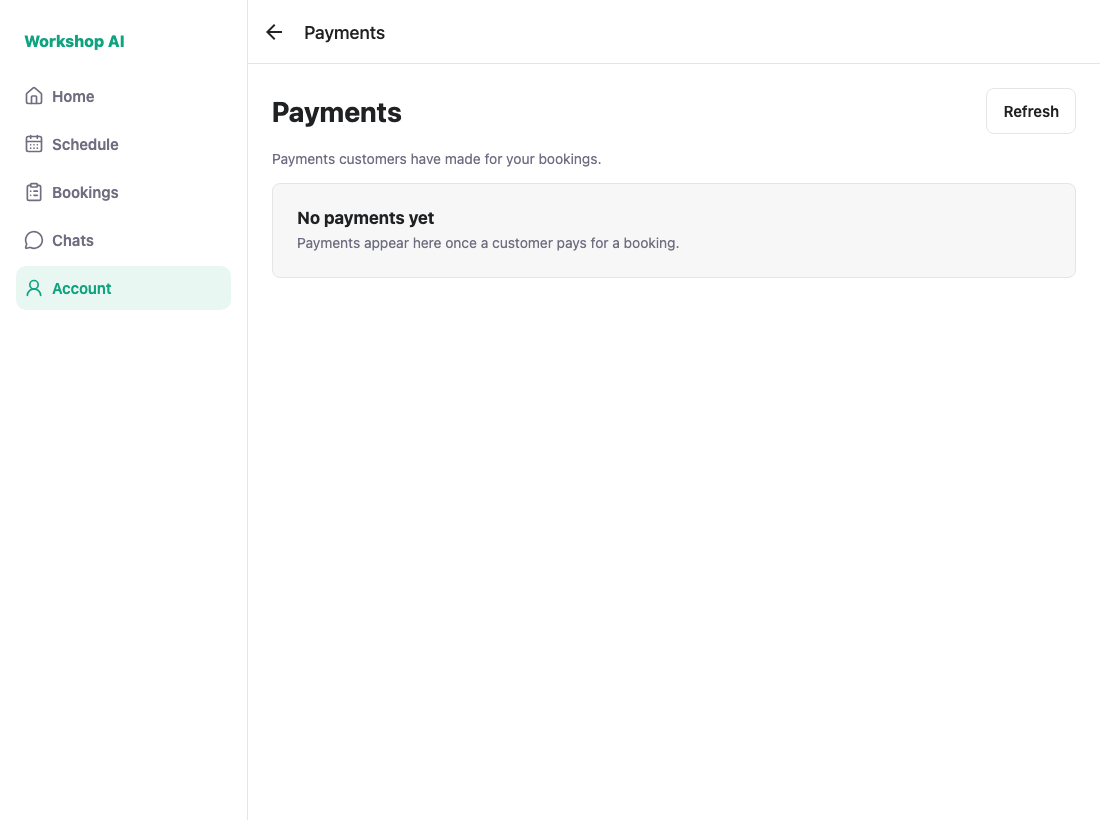
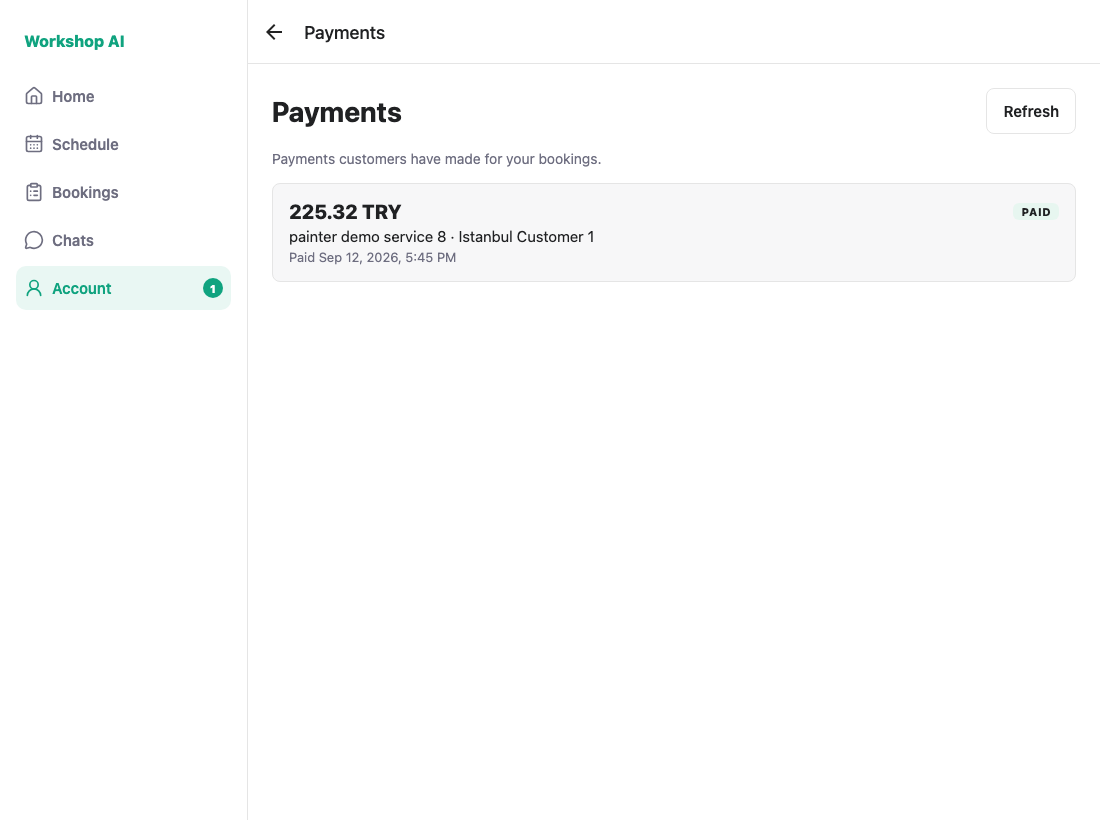
WS-96 docs: re-capture the provider evidence against an account with payments
Shot 07 showed "No payments yet". The screen was correct and so was
getProviderPayments — the seeded payments belong to provider profiles 16 and 2,
and the capture signed in as provider 1, who genuinely has none. An empty list
is not evidence that history works, so the PR was claiming a provider flow the
screenshot did not support.

Capture the provider leg as demo_provider_16, who owns the PAID 225.32 TRY
record. Shot 07 now shows the customer side of shot 02 seen from the provider,
which is what "one screen, wording swapped" was supposed to demonstrate.

Two fixes so this cannot recur silently:

- assertHasPayments() fails loudly when either role's history is empty, the way
  the Favourites rule was already asserted.
- The Account tab is matched by prefix. Its accessible name is "Account 1" when
  there are unread notifications, so the old exact match broke on any account
  with a badge — which is why provider 16 timed out at first. Sign-in now waits
  for the shell instead of a fixed sleep.

Shots 01-05 re-ran byte-identical.

Changed region(s): [[0.2473, 0.2439, 0.6182, 0.3354], [0.9273, 0.2439, 0.9582, 0.2744], [0.1855, 0.3354, 0.2164, 0.3659]]

diff --git a/docs/testing/ws-96/shoot.js b/docs/testing/ws-96/shoot.js
@@ -6,8 +6,17 @@
 const { chromium } = require("playwright");
 
 const APP = "http://localhost:8090";
+// The provider leg must use an account that actually owns a payment, or shot 07
+// captures an empty state and proves nothing about the history. Payments in the
+// seed belong to provider profiles 16 and 2 — not profile 1.
+const PROVIDER = "demo_provider_16@workshop.ai";
+const CUSTOMER = "demo_customer_1@workshop.ai";
 const OUT = __dirname;
 const PASSWORD = "Demo1234";
+// The Account tab carries the unread badge, so its accessible name is "Account"
+// or "Account 1". An exact match silently fails for any account with unread
+// notifications — match the prefix instead.
+const ACCOUNT_TAB = /^Account/;
 
 const visible = (page, text) =>
   page.getByText(text, { exact: true }).locator("visible=true").first();
@@ -17,12 +26,19 @@ async function signIn(page, email) {
   await page.getByPlaceholder("you@example.com").fill(email);
   await page.getByPlaceholder("Minimum 8 characters").fill(PASSWORD);
   await page.getByRole("button", { name: "Sign in" }).click();
-  await page.waitForTimeout(4500);
+  // Waiting for the shell to actually appear beats a fixed sleep: a second
+  // sign-in after signing out is slower than the first.
+  await page
+    .getByRole("button", { name: ACCOUNT_TAB })
+    .locator("visible=true")
+    .first()
+    .waitFor({ state: "visible", timeout: 60000 });
+  await page.waitForTimeout(1500);
 }
 
 async function openAccountTab(page) {
   await page
-    .getByRole("button", { name: "Account", exact: true })
+    .getByRole("button", { name: ACCOUNT_TAB })
     .locator("visible=true")
     .first()
     .click();
@@ -40,6 +56,19 @@ async function back(page) {
   await openAccountTab(page);
 }
 
+// A screenshot of an empty list is not evidence that history works, so fail
+// loudly rather than committing a blank screen.
+async function assertHasPayments(page, role) {
+  const empty = await visible(page, "No payments yet")
+    .isVisible()
+    .catch(() => false);
+  console.log(
+    empty
+      ? `FAIL: ${role} payment history is empty — wrong account, or the query broke`
+      : `PASS: ${role} payment history shows records`,
+  );
+}
+
 async function shot(page, name) {
   await page.screenshot({ path: `${OUT}/${name}.png` });
   console.log("saved", name);
@@ -49,11 +78,12 @@ async function shot(page, name) {
   const browser = await chromium.launch();
   const page = await browser.newPage({ viewport: { width: 1100, height: 820 } });
 
-  await signIn(page, "demo_customer_1@workshop.ai");
+  await signIn(page, CUSTOMER);
   await openAccountTab(page);
   await shot(page, "01-account-customer");
 
   await openRow(page, "Payments");
+  await assertHasPayments(page, "customer");
   await shot(page, "02-payments-customer");
   await back(page);
 
@@ -72,7 +102,7 @@ async function shot(page, name) {
   await openRow(page, "Sign out");
   await page.waitForTimeout(4500);
 
-  await signIn(page, "demo_provider_1@workshop.ai");
+  await signIn(page, PROVIDER);
   await openAccountTab(page);
   await shot(page, "06-account-provider");
 
@@ -86,6 +116,7 @@ async function shot(page, name) {
   );
 
   await openRow(page, "Payments");
+  await assertHasPayments(page, "provider");
   await shot(page, "07-payments-provider");
 
   await browser.close();

diff --git a/docs/testing/ws-96/README.md b/docs/testing/ws-96/README.md
@@ -1,8 +1,13 @@
 # WS-96 — Account menu IA: test evidence
 
 Captured against a locally running API (`uvicorn backend.main:app`) on a freshly
-migrated and seeded database, signed in as `demo_customer_1@workshop.ai` and
-`demo_provider_1@workshop.ai`. Every image is a real run, not a mockup.
+migrated and seeded database, signed in as `demo_customer_1@workshop.ai` and `demo_provider_16@workshop.ai`.
+Every image is a real run, not a mockup.
+
+The provider leg uses provider **16** deliberately. The seeded payments belong to
+provider profiles 16 and 2, so signing in as `demo_provider_1` renders a correct
+but empty history — a screenshot that proves nothing. `shoot.js` now asserts the
+list is non-empty for both roles so that cannot happen again unnoticed.
 
 Subtasks covered: **WS-108** (menu IA and Favourite entry), **WS-109**
 (Help and Support), **WS-110** (Payments entry and history).
@@ -53,7 +58,10 @@ are present, matching the customer menu minus the customer-only row.
 
 ## 7. Payments — provider (WS-110)
 
-Same screen, provider wording, reading `GET /provider/payments`.
+Same screen, provider wording, reading `GET /provider/payments`. The `PAID`
+record (225.32 TRY) is the customer side of shot 2, seen from the provider —
+the counterparty column swaps from the provider's business name to the
+customer's name.
 
 ![Provider payment history](07-payments-provider.png)
 
@@ -62,8 +70,15 @@ Same screen, provider wording, reading `GET /provider/payments`.
 ## How these were captured
 
 `docs/testing/ws-96/shoot.js` drives the flows with Playwright and asserts the
-role rule rather than leaving it to the eye — it prints
-`PASS: Favourites hidden for provider`. Re-run it with the API and
+acceptance rules rather than leaving them to the eye. A clean run prints:
+
+```
+PASS: customer payment history shows records
+PASS: Favourites hidden for provider
+PASS: provider payment history shows records
+```
+
+Re-run it with the API and
 `npx expo start --web --port 8090` both up:
 
 ```bash
